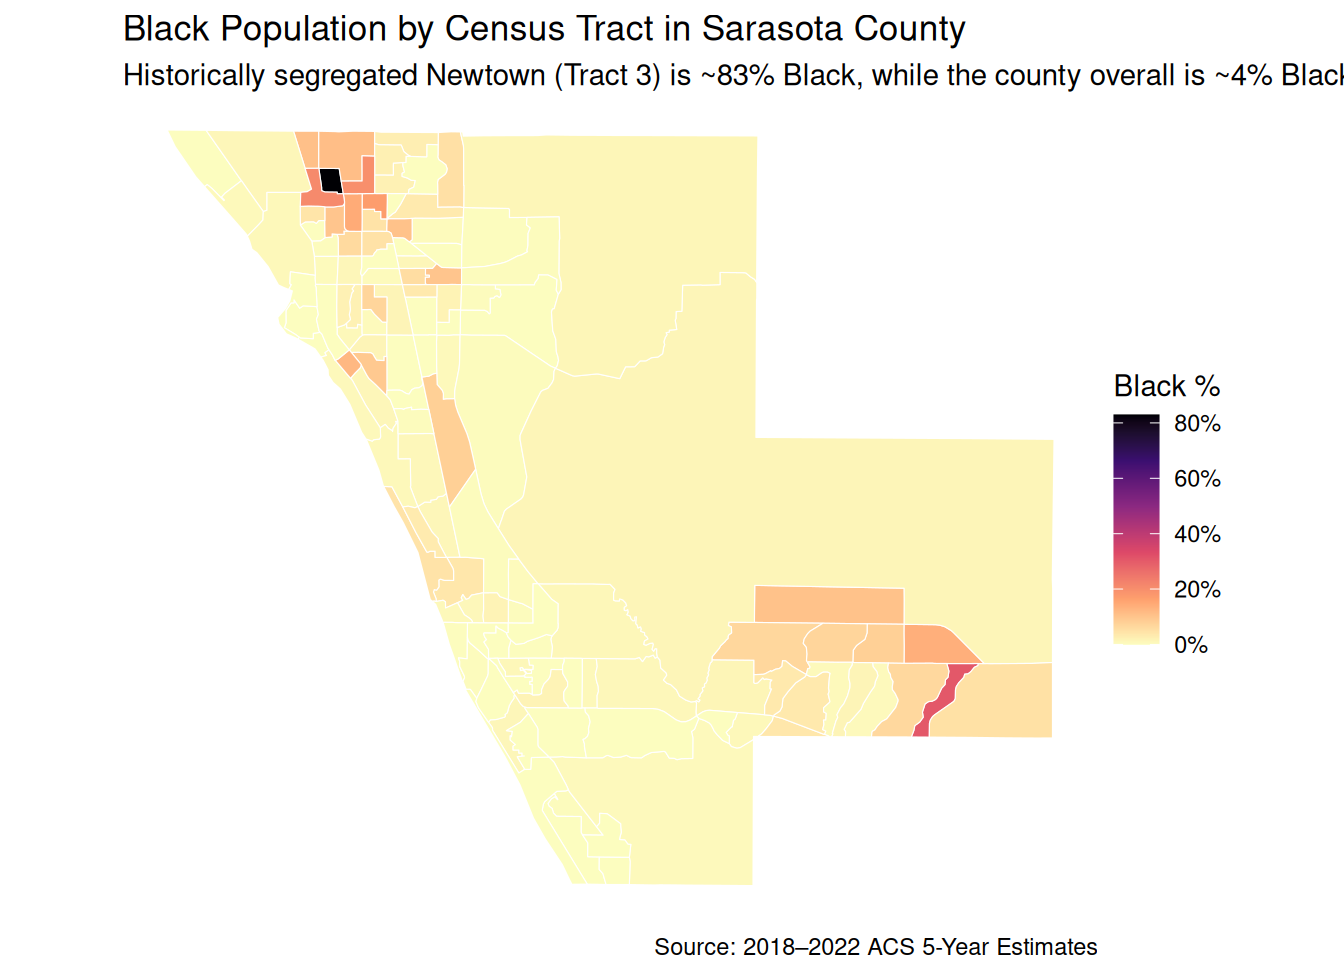
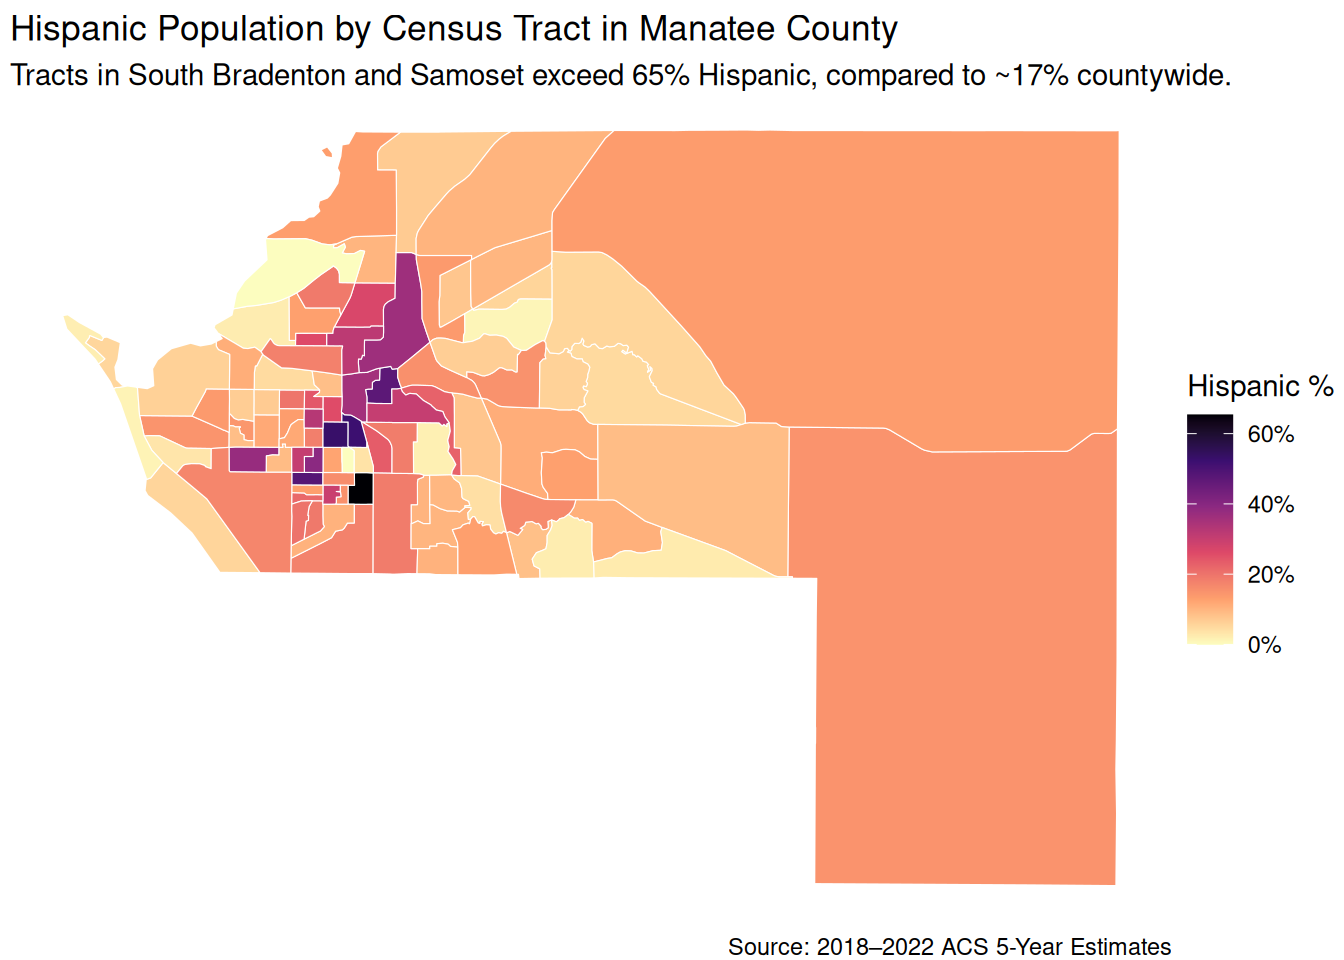
Built site for gh-pages

diff --git a/index.html b/index.html
@@ -7,7 +7,7 @@
 <meta name="viewport" content="width=device-width, initial-scale=1.0, user-scalable=yes">
 
 
-<title>Racial Demographics in Sarasota County – Florida Census and Race</title>
+<title>Hispanic Demographics in Manatee County – Florida Census and Race</title>
 <style>
 /* Default styles provided by pandoc.
 ** See https://pandoc.org/MANUAL.html#variables-for-html for config info.
@@ -122,7 +122,7 @@ ul.task-list li input[type="checkbox"] {
 
 <header id="title-block-header" class="quarto-title-block default">
 <div class="quarto-title">
-<h1 class="title">Racial Demographics in Sarasota County</h1>
+<h1 class="title">Hispanic Demographics in Manatee County</h1>
 </div>
 
 
